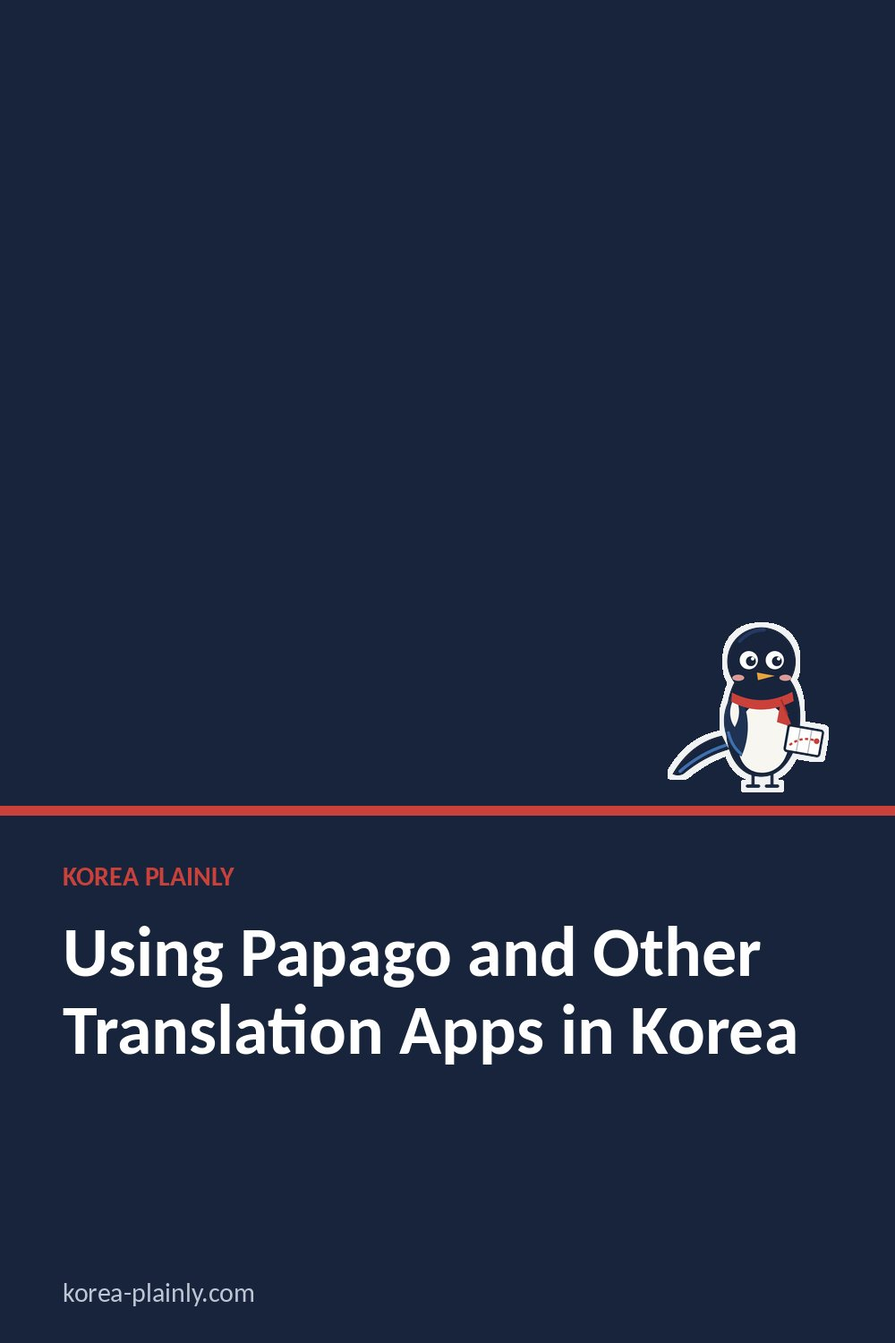
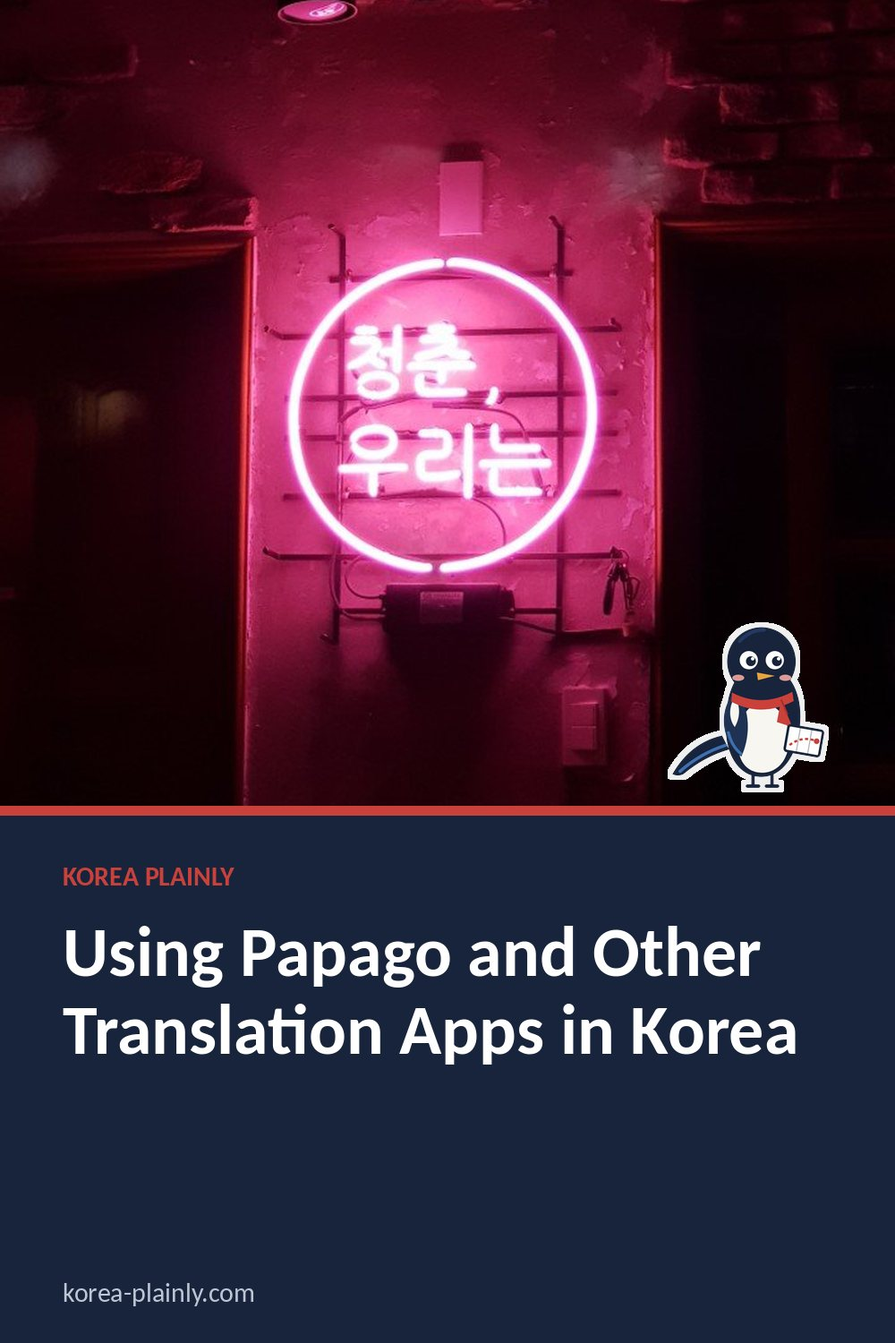
Seoul subway map guide rewrite, Papago cover photo, keyword-gap topics
- seoul-subway-for-foreigners: retitled for "seoul subway map"; fuller body (~1,100 words) on reading the map, apps, fares, platforms, transfers, exits and last trains, with FAQ; new description, lead, card text and cover alt
- papago-translation-app: no Commons photo was found; use the owner's Hangul neon photo as the cover
- topics: WOWPASS, Seoul with kids, temple stay programs, budget airlines/domestic flights and Myeongdong night market moved to the front (keyword gaps)

Claude-Session: https://claude.ai/code/session_018grP5WofxfXMUUDbNYE278

diff --git a/seoul-subway-for-foreigners.html b/seoul-subway-for-foreigners.html
@@ -4,18 +4,18 @@
 <meta charset="UTF-8">
 <meta name="viewport" content="width=device-width, initial-scale=1.0">
 <link rel="stylesheet" href="style.css?v=20261015-1">
-<title>How to Use the Seoul Subway as a Foreigner | Korea Plainly</title>
-<meta name="description" content="How to Use the Seoul Subway as a Foreigner. Practical tips and simple advice for foreign visitors traveling in Korea.">
+<title>Seoul Subway Map and How to Use It: A Guide for Foreigners</title>
+<meta name="description" content="How to read the Seoul subway map, pay with T-money, find the right platform, change lines and choose exits, for first-time visitors.">
 <link rel="canonical" href="https://korea-plainly.com/seoul-subway-for-foreigners.html">
 <meta property="og:type" content="article">
-<meta property="og:title" content="How to Use the Seoul Subway as a Foreigner | Korea Plainly">
-<meta property="og:description" content="How to Use the Seoul Subway as a Foreigner. Practical tips and simple advice for foreign visitors traveling in Korea.">
+<meta property="og:title" content="Seoul Subway Map and How to Use It: A Guide for Foreigners | Korea Plainly">
+<meta property="og:description" content="How to read the Seoul subway map, pay with T-money, find the right platform, change lines and choose exits, for first-time visitors.">
 <meta property="og:url" content="https://korea-plainly.com/seoul-subway-for-foreigners.html">
 <meta property="og:image" content="https://korea-plainly.com/photo-seoul-subway-for-foreigners.jpg">
 <meta property="og:site_name" content="Korea Plainly">
 <meta name="twitter:card" content="summary_large_image">
-<meta name="twitter:title" content="How to Use the Seoul Subway as a Foreigner | Korea Plainly">
-<meta name="twitter:description" content="How to Use the Seoul Subway as a Foreigner. Practical tips and simple advice for foreign visitors traveling in Korea.">
+<meta name="twitter:title" content="Seoul Subway Map and How to Use It: A Guide for Foreigners | Korea Plainly">
+<meta name="twitter:description" content="How to read the Seoul subway map, pay with T-money, find the right platform, change lines and choose exits, for first-time visitors.">
 <meta name="twitter:image" content="https://korea-plainly.com/photo-seoul-subway-for-foreigners.jpg">
 
 <style>
@@ -46,8 +46,9 @@ footer{border-top:1px solid #ddd4c5;padding:30px 24px;color:#737985;text-align:c
 <script async src="https://www.googletagmanager.com/gtag/js?id=G-F508WWT8G9"></script><script>window.dataLayer=window.dataLayer||[];function gtag(){dataLayer.push(arguments);}gtag('js',new Date());gtag('config','G-F508WWT8G9');</script>
 <link rel="stylesheet" href="article.css?v=3">
 <link rel="stylesheet" href="https://fonts.googleapis.com/css2?family=DM+Sans:wght@400;500;600;700&family=Playfair+Display:ital,wght@0,600;1,600&display=swap">
-<script type="application/ld+json" id="kp-article-ld">{"@context": "https://schema.org", "@type": "Article", "headline": "How to Use the Seoul Subway as a Foreigner", "description": "How to Use the Seoul Subway as a Foreigner. Practical tips and simple advice for foreign visitors traveling in Korea.", "image": ["https://korea-plainly.com/photo-seoul-subway-for-foreigners.jpg"], "datePublished": "2026-10-07", "dateModified": "2026-10-07", "author": {"@type": "Person", "name": "Jungsuk Kim", "url": "https://korea-plainly.com/about.html#author"}, "publisher": {"@type": "Organization", "name": "Korea Plainly", "url": "https://korea-plainly.com/"}, "mainEntityOfPage": "https://korea-plainly.com/seoul-subway-for-foreigners.html"}</script>
-<script type="application/ld+json" id="kp-breadcrumb-ld">{"@context": "https://schema.org", "@type": "BreadcrumbList", "itemListElement": [{"@type": "ListItem", "position": 1, "name": "Home", "item": "https://korea-plainly.com/"}, {"@type": "ListItem", "position": 2, "name": "Guides", "item": "https://korea-plainly.com/guides.html"}, {"@type": "ListItem", "position": 3, "name": "Transport", "item": "https://korea-plainly.com/guides.html?category=transport"}, {"@type": "ListItem", "position": 4, "name": "How to Use the Seoul Subway as a Foreigner", "item": "https://korea-plainly.com/seoul-subway-for-foreigners.html"}]}</script>
+<script type="application/ld+json" id="kp-faq-ld">{"@context": "https://schema.org", "@type": "FAQPage", "mainEntity": [{"@type": "Question", "name": "Is there an English Seoul subway map?", "acceptedAnswer": {"@type": "Answer", "text": "Yes. Station maps and signs show station names in English as well as Korean, and Naver Map, KakaoMap and subway apps such as Subway Korea can be set to English. Saving the map on your phone is easier than reading the large wall maps."}}, {"@type": "Question", "name": "Can I use the Seoul subway without speaking Korean?", "acceptedAnswer": {"@type": "Answer", "text": "Easily. Ticket machines, signs and announcements are in English, and station numbers help you check where you are. Plan the route in an app before you go, and ask station staff if you get lost."}}, {"@type": "Question", "name": "How late does the Seoul subway run?", "acceptedAnswer": {"@type": "Answer", "text": "Most lines run until around midnight, with slightly earlier last trains on weekends and holidays on some lines. Times differ by station and direction, so check the last train in Naver Map or KakaoMap and use a taxi after that."}}]}</script>
+<script type="application/ld+json" id="kp-article-ld">{"@context": "https://schema.org", "@type": "Article", "headline": "Seoul Subway Map and How to Use It: A Guide for Foreigners", "description": "How to read the Seoul subway map, pay with T-money, find the right platform, change lines and choose exits, for first-time visitors.", "image": ["https://korea-plainly.com/photo-seoul-subway-for-foreigners.jpg"], "datePublished": "2026-10-07", "dateModified": "2026-10-18", "author": {"@type": "Person", "name": "Jungsuk Kim", "url": "https://korea-plainly.com/about.html#author"}, "publisher": {"@type": "Organization", "name": "Korea Plainly", "url": "https://korea-plainly.com/"}, "mainEntityOfPage": "https://korea-plainly.com/seoul-subway-for-foreigners.html"}</script>
+<script type="application/ld+json" id="kp-breadcrumb-ld">{"@context": "https://schema.org", "@type": "BreadcrumbList", "itemListElement": [{"@type": "ListItem", "position": 1, "name": "Home", "item": "https://korea-plainly.com/"}, {"@type": "ListItem", "position": 2, "name": "Guides", "item": "https://korea-plainly.com/guides.html"}, {"@type": "ListItem", "position": 3, "name": "Transport", "item": "https://korea-plainly.com/guides.html?category=transport"}, {"@type": "ListItem", "position": 4, "name": "Seoul Subway Map and How to Use It: A Guide for Foreigners", "item": "https://korea-plainly.com/seoul-subway-for-foreigners.html"}]}</script>
 <meta property="article:published_time" content="2026-10-07">
 </head>
 <body class="kp-article">
@@ -71,58 +72,65 @@ footer{border-top:1px solid #ddd4c5;padding:30px 24px;color:#737985;text-align:c
 <main>
 <nav class="kp-crumbs" data-kp="crumbs" aria-label="Breadcrumb"><a href="index.html">Home</a> <span>›</span> <a href="guides.html">Guides</a> <span>›</span> <a href="guides.html?category=transport">Transport</a></nav>
 <div class="eyebrow">SEOUL · TRANSPORT</div>
-<h1>How to Use the Seoul Subway as a Foreigner</h1>
-<p class="kp-date" data-kp="date">By <a href="about.html#author">Jungsuk Kim</a>, Korea Plainly · Published <time datetime="2026-10-07">7 October 2026</time></p>
-<p class="dek">Seoul's subway is one of the easiest ways to explore the city. Here is a simple guide to tickets, transfers, signs and the small things first-time visitors should know.</p>
+<h1>Seoul Subway Map and How to Use It: A Guide for Foreigners</h1>
+<p class="kp-date" data-kp="date">By <a href="about.html#author">Jungsuk Kim</a>, Korea Plainly · Published <time datetime="2026-10-07">7 October 2026</time> · Updated <time datetime="2026-10-18">18 October 2026</time></p>
+<p class="dek">The Seoul subway map looks complicated, but you only need a line, a direction and an exit. Here is how to read the map, pay, change lines and find your way out.</p>
 
-<img class="cover" src="photo-seoul-subway-for-foreigners.jpg" alt="Seoul city" srcset="img/photo-seoul-subway-for-foreigners.0b6d5614.w480.webp 480w, img/photo-seoul-subway-for-foreigners.0b6d5614.w800.webp 800w, img/photo-seoul-subway-for-foreigners.0b6d5614.w1200.webp 1200w, photo-seoul-subway-for-foreigners.jpg 1600w" sizes="(max-width: 860px) 100vw, 820px" fetchpriority="high">
+<img class="cover" src="photo-seoul-subway-for-foreigners.jpg" alt="A Seoul subway train running beside the Han River" srcset="img/photo-seoul-subway-for-foreigners.0b6d5614.w480.webp 480w, img/photo-seoul-subway-for-foreigners.0b6d5614.w800.webp 800w, img/photo-seoul-subway-for-foreigners.0b6d5614.w1200.webp 1200w, photo-seoul-subway-for-foreigners.jpg 1600w" sizes="(max-width: 860px) 100vw, 820px" fetchpriority="high">
 <p class="photo-credit" data-kp="photo-credit" style="font-size:12px;color:#777;margin:-18px 0 24px"><a href="https://commons.wikimedia.org/wiki/File:Seoul-Metropolitan-Rapid-Transit-7010-20070721.jpg" target="_blank" rel="noopener nofollow" style="color:inherit">Photo: LERK, CC BY 2.5, via Wikimedia Commons</a></p>
 
 <article>
-<nav class="kp-toc" data-kp="toc" aria-label="On this page"><p>On this page</p><ol><li><a href="#1-get-a-transportation-card-first">1. Get a transportation card first</a></li><li><a href="#2-understand-the-subway-lines">2. Understand the subway lines</a></li><li><a href="#3-check-the-direction-before-boarding">3. Check the direction before boarding</a></li><li><a href="#4-transfers-can-involve-a-lot-of-walking">4. Transfers can involve a lot of walking</a></li><li><a href="#5-use-english-signs">5. Use English signs</a></li><li><a href="#6-know-how-the-subway-etiquette-works">6. Know how the subway etiquette works</a></li><li><a href="#7-don-t-worry-if-you-miss-a-train">7. Don&#x27;t worry if you miss a train</a></li><li><a href="#8-use-a-local-map-app-when-possible">8. Use a local map app when possible</a></li></ol></nav>
-<h2 id="1-get-a-transportation-card-first">1. Get a transportation card first</h2>
-<p>If you plan to use public transportation more than once or twice, a rechargeable transportation card is usually the easiest option. T-money is widely used on Seoul's subway and buses.</p>
+<nav class="kp-toc" data-kp="toc" aria-label="On this page"><p>On this page</p><ol><li><a href="#reading-the-seoul-subway-map">Reading the Seoul subway map</a></li><li><a href="#the-best-subway-map-apps">The best subway map apps</a></li><li><a href="#paying-for-the-subway">Paying for the subway</a></li><li><a href="#finding-the-right-platform">Finding the right platform</a></li><li><a href="#transfers-and-exits">Transfers and exits</a></li><li><a href="#hours-crowds-and-etiquette">Hours, crowds and etiquette</a></li><li><a href="#faq">FAQ</a></li></ol></nav>
+<h2 id="reading-the-seoul-subway-map">Reading the Seoul subway map</h2>
+<p>The Seoul subway map looks frightening the first time you see it on a station wall: more than twenty coloured lines, hundreds of dots and several lines that run far out into Gyeonggi-do and Incheon. The trick is that you never need to read the whole thing. You only need three pieces of information for any ride: the line, the direction and the station where you change.</p>
+<ul>
+<li><strong>Line numbers and colours.</strong> Lines 1 to 9 are numbered, and each has a fixed colour that is used on the map, on platform signs and on the floor arrows inside stations. Line 2 (green) is the loop through central Seoul, Line 4 (light blue) serves Myeongdong and Seoul Station, and Line 9 (gold) runs along the south of the Han River. Other lines have names instead of numbers, such as AREX (the airport railroad), Shinbundang, Gyeongui-Jungang and Suin-Bundang.</li>
+<li><strong>Station numbers.</strong> Every station has a three-digit code beside its name, for example 201 for City Hall on Line 2 or 424 for Myeongdong on Line 4. The first digit usually matches the line. If you cannot pronounce a station name, the number is an easy way to check you are in the right place.</li>
+<li><strong>Transfer stations.</strong> Stations where lines meet are drawn as larger white circles. Big ones such as Seoul Station, Jongno 3-ga and Express Bus Terminal connect three or more lines.</li>
+</ul>
+<p>A screenshot of an old map may be missing newer stations, so use an app for planning.</p>
 
-<div class="steps">
-<div class="step"><strong>Step 1</strong>Buy a card at a convenience store or subway station.</div>
-<div class="step"><strong>Step 2</strong>Add Korean won to the card before travelling.</div>
-<div class="step"><strong>Step 3</strong>Tap when entering and leaving the system.</div>
-</div>
+<h2 id="the-best-subway-map-apps">The best subway map apps</h2>
+<p>Route planning is much easier on a phone than on a wall map. Naver Map and KakaoMap both have English menus, show the subway lines in their real colours, and tell you which carriage door is closest to the exit or transfer you need. Subway apps such as Subway Korea show a clean, zoomable Seoul subway map. Google Maps shows subway routes but walks you badly, so keep it as a backup. Our guide to <a href="naver-map-vs-google-maps-korea.html">Naver Map vs Google Maps</a> explains the switch to English.</p>
 
-<h2 id="2-understand-the-subway-lines">2. Understand the subway lines</h2>
-<p>Each subway line has a number or name and a distinct color. You do not need to memorize them. Search for your destination and follow the line number, station name and direction shown on the signs.</p>
+<h2 id="paying-for-the-subway">Paying for the subway</h2>
+<p>The simplest way to pay is a rechargeable <a href="korea-transit-card-guide.html">transit card</a> such as T-money, which you can buy and top up with cash at convenience stores and at the machines in every station. Some travel cards and foreign-issued contactless bank cards are also accepted at the gates, but acceptance has been changing, so a T-money card with a few thousand won on it is the safest choice.</p>
+<ul>
+<li><strong>Fares.</strong> A basic adult ride in Seoul cost about 1,550 won with a card in 2026, with a little extra for longer trips. Paying with a card is cheaper than a single journey ticket.</li>
+<li><strong>Single journey tickets.</strong> The station machines (with an English button) sell a reusable card ticket that includes a small refundable deposit. Get the deposit back at the deposit refund machine near the gates when you finish.</li>
+<li><strong>Tap in and tap out.</strong> Always tap your card when you leave, not only when you enter. The fare depends on distance, and leaving without tapping can cost you more next time.</li>
+</ul>
+<p>If you change from the subway to a bus within a short time, the transfer is discounted or free as long as you tap out of each vehicle. The details are in our guide to <a href="korea-public-transport-transfers.html">public transport transfers</a>.</p>
 
-<figure class="article-figure">
-<img src="street.jpg" alt="A Seoul street" srcset="img/street.5386e01c.w480.webp 480w, img/street.5386e01c.w800.webp 800w, img/street.5386e01c.w1200.webp 1200w, street.jpg 1536w" sizes="(max-width: 600px) 100vw, (max-width: 1000px) 50vw, 400px" decoding="async">
-<figcaption>When you leave a station, check the exit number carefully. Seoul stations can have many exits.</figcaption>
-</figure>
+<h2 id="finding-the-right-platform">Finding the right platform</h2>
+<p>This is where most first-time mistakes happen. The same line runs in two directions, often from separate entrances on opposite sides of the road. Before you tap in, look at the signs above the stairs: they show the line colour and the next station or the end station in each direction. Compare that with the next stop on your app. At some stations the wrong gate means paying again to cross over.</p>
+<p>Line 2 is the exception that confuses people: because it is a loop, the signs say "inner circle" (clockwise) and "outer circle" (anticlockwise). Just check the name of the next station instead.</p>
 
-<h2 id="3-check-the-direction-before-boarding">3. Check the direction before boarding</h2>
-<p>This is one of the easiest mistakes to make. A station can have trains going in opposite directions from different platforms. Look for the final destination or direction displayed on the platform signs.</p>
+<h2 id="transfers-and-exits">Transfers and exits</h2>
+<p>Follow the coloured signs marked "Transfer" to change lines. Some transfers are a short walk across the platform; others, such as at Gimpo Airport or Gangnam-area interchanges, can take five to ten minutes through tunnels and stairs. Allow extra time if you have luggage, and look for lifts marked with a wheelchair symbol. On Line 9, express trains skip many stations, so check that yours is served.</p>
+<p>Exit numbers matter more than in many cities. Large stations have ten or more exits that come out on different streets, sometimes several hundred metres apart. Your map app and many shop websites give the exit number ("Exit 8"), and yellow signs inside the station point the way.</p>
 
-<div class="tip"><strong>Quick tip:</strong> If you are unsure, compare the next few station names with your route before getting on the train.</div>
+<h2 id="hours-crowds-and-etiquette">Hours, crowds and etiquette</h2>
+<ul>
+<li>Trains usually run from about 5:30 in the morning until around midnight. Last trains vary by line and day, so check your app before a late night out.</li>
+<li>Rush hours (roughly 7:30 to 9:30 and 6:00 to 8:00 pm on weekdays) are very crowded on Lines 2, 7 and 9. Travel outside these times with big suitcases if you can.</li>
+<li>Let people off first, then board. Queue at the marked lines on the platform.</li>
+<li>The seats at the ends of each carriage are for older passengers, pregnant women and people with disabilities. Pink seats are reserved for pregnant women. Leave them free even when the train is quiet.</li>
+<li>Speak quietly, use headphones, and avoid eating on the train.</li>
 
-<h2 id="4-transfers-can-involve-a-lot-of-walking">4. Transfers can involve a lot of walking</h2>
-<p>Seoul's subway system is highly connected, but some transfers are long. A transfer may mean walking through corridors, taking stairs or following signs for several minutes.</p>
+</ul>
+<p>For journeys the subway does not cover well, the <a href="seoul-bus-guide.html">Seoul bus guide</a> explains how the buses work, and our <a href="incheon-airport-to-seoul.html">airport guide</a> covers AREX from Incheon.</p>
 
-<h2 id="5-use-english-signs">5. Use English signs</h2>
-<p>Major subway stations generally provide Korean and English information, and many also include Chinese and Japanese. Station names are commonly displayed in both Korean and Roman letters.</p>
+<div class="tip"><strong>Bottom line:</strong> Use the Seoul subway map in an app, check the direction before you tap in, note your exit number, and tap out at the end. After a couple of rides it becomes the easiest way to see the city.</div>
 
-<h2 id="6-know-how-the-subway-etiquette-works">6. Know how the subway etiquette works</h2>
-<p>Stand to one side of the escalator when appropriate, let passengers exit before boarding, and avoid blocking doors. Priority seats are intended for people who need them, so it is best not to occupy them casually.</p>
-
-<figure class="article-figure">
-<img src="store.jpg" alt="Korean convenience store" srcset="img/store.438a5153.w480.webp 480w, img/store.438a5153.w800.webp 800w, img/store.438a5153.w1200.webp 1200w, store.jpg 1536w" sizes="(max-width: 600px) 100vw, (max-width: 1000px) 50vw, 400px" decoding="async">
-<figcaption>Convenience stores near subway stations can be useful for water, snacks and quick breaks.</figcaption>
-</figure>
-
-<h2 id="7-don-t-worry-if-you-miss-a-train">7. Don't worry if you miss a train</h2>
-<p>Trains arrive frequently, especially on busy routes. Missing one train usually does not change your trip very much. Check the next train and continue.</p>
-
-<h2 id="8-use-a-local-map-app-when-possible">8. Use a local map app when possible</h2>
-<p>Naver Map and KakaoMap can be especially helpful in Korea. They can show detailed walking routes, station exits and local businesses that may not appear as clearly on Google Maps.</p>
-
-<div class="tip"><strong>Bottom line:</strong> Get a transportation card, check the direction before boarding, and give yourself extra time for transfers. After a couple of rides, Seoul's subway becomes much easier.</div>
+<section class="faq"><h2 id="faq">FAQ</h2>
+<h3>Is there an English Seoul subway map?</h3>
+<p>Yes. Station maps and signs show station names in English as well as Korean, and Naver Map, KakaoMap and subway apps such as Subway Korea can be set to English. Saving the map on your phone is easier than reading the large wall maps.</p>
+<h3>Can I use the Seoul subway without speaking Korean?</h3>
+<p>Easily. Ticket machines, signs and announcements are in English, and station numbers help you check where you are. Plan the route in an app before you go, and ask station staff if you get lost.</p>
+<h3>How late does the Seoul subway run?</h3>
+<p>Most lines run until around midnight, with slightly earlier last trains on weekends and holidays on some lines. Times differ by station and direction, so check the last train in Naver Map or KakaoMap and use a taxi after that.</p>
+</section>
 
 <!-- kp-kkachi -->
 <style>.kp-kkachi{display:flex;gap:16px;align-items:center;margin:34px 0 8px;padding:16px 18px;border:1px solid rgba(20,28,42,.12);border-radius:14px;background:#fffdf8}.kp-kkachi img{width:72px;height:auto;flex:none;margin:0}.kp-kkachi p{margin:0;font-size:15px;line-height:1.6;color:#4b5363}.kp-kkachi a{color:#c9413a;font-weight:600}.kp-kkachi .kp-sub{margin-top:10px}.kp-sub{display:inline-flex;align-items:center;gap:8px;background:#c9413a;color:#fff!important;font-weight:700;font-size:14px;line-height:1;padding:10px 16px;border-radius:999px;text-decoration:none!important;white-space:nowrap}.kp-sub:before{content:'';border-style:solid;border-width:6px 0 6px 10px;border-color:transparent transparent transparent #fff}.kp-sub:hover{background:#a8332d}</style><aside class="kp-kkachi"><img src="kkachi.png" alt="Kkachi, the Korea Plainly magpie" width="72" height="78" loading="lazy"><p><strong>Kkachi says:</strong> in Korea, a magpie's call is said to mean good news and welcome guests are on the way. Have a wonderful trip! New one-minute Korea tips every Monday, Wednesday and Friday on <a href="https://www.youtube.com/@KoreaPlainly" target="_blank" rel="noopener">YouTube</a>.<br><a class="kp-sub" href="https://www.youtube.com/@KoreaPlainly?sub_confirmation=1" target="_blank" rel="noopener">Subscribe on YouTube</a></p></aside>

diff --git a/papago-translation-app.html b/papago-translation-app.html
@@ -46,7 +46,7 @@ Using Papago and Other Translation Apps in Korea | Korea Plainly
 
 <meta
   property="og:image"
-  content="https://korea-plainly.com/street.jpg"
+  content="https://korea-plainly.com/photo-own-neon-hangul.jpg"
 >
 
 <meta
@@ -71,7 +71,7 @@ Using Papago and Other Translation Apps in Korea | Korea Plainly
 
 <meta
   name="twitter:image"
-  content="https://korea-plainly.com/street.jpg"
+  content="https://korea-plainly.com/photo-own-neon-hangul.jpg"
 >
 
 <style>
@@ -247,12 +247,12 @@ footer {
 <script async src="https://pagead2.googlesyndication.com/pagead/js/adsbygoogle.js?client=ca-pub-7379462117232471" crossorigin="anonymous"></script>
 <style>.kp-date{font-size:13px;color:#62635f;margin:-6px 0 22px}</style>
 <script type="application/ld+json" id="kp-faq-ld">{"@context": "https://schema.org", "@type": "FAQPage", "mainEntity": [{"@type": "Question", "name": "Can I use a translation app to read Korean menus and signs?", "acceptedAnswer": {"@type": "Answer", "text": "Yes. Many translation apps can translate text through your phone’s camera, which is useful for printed menus, signs, and notices. Results may be less reliable with handwriting, decorative fonts, glare, or unusual layouts. If a translation seems unclear, try taking a sharper photo or ask staff to confirm the dish or direction."}}, {"@type": "Question", "name": "Should I trust a translation app for important conversations?", "acceptedAnswer": {"@type": "Answer", "text": "Treat translations as a helpful aid, not a perfect interpretation. Short, simple sentences usually work better than slang, jokes, or long explanations. For important details such as an address, allergy, or reservation, check the translated text carefully and show it to the other person so they can correct misunderstandings."}}, {"@type": "Question", "name": "Will translation apps work without an internet connection in Korea?", "acceptedAnswer": {"@type": "Answer", "text": "Some apps offer offline language options, but available features can differ, and camera or voice translation may need a connection. Before traveling, check the app’s settings and download any Korean language data it offers while you have Wi-Fi. Keep important addresses or messages saved as text or screenshots as a backup."}}]}</script>
-<script type="application/ld+json" id="kp-article-ld">{"@context": "https://schema.org", "@type": "Article", "headline": "Using Papago and Other Translation Apps in Korea", "description": "Learn how to use Papago, Google Translate, and other translation tools for menus, signs, conversations, and everyday tasks while visiting Korea.", "image": ["https://korea-plainly.com/street.jpg"], "datePublished": "2026-10-18", "dateModified": "2026-10-18", "author": {"@type": "Person", "name": "Jungsuk Kim", "url": "https://korea-plainly.com/about.html#author"}, "publisher": {"@type": "Organization", "name": "Korea Plainly", "url": "https://korea-plainly.com/"}, "mainEntityOfPage": "https://korea-plainly.com/papago-translation-app.html"}</script>
-<script type="application/ld+json" id="kp-breadcrumb-ld">{"@context": "https://schema.org", "@type": "BreadcrumbList", "itemListElement": [{"@type": "ListItem", "position": 1, "name": "Home", "item": "https://korea-plainly.com/"}, {"@type": "ListItem", "position": 2, "name": "Guides", "item": "https://korea-plainly.com/guides.html"}, {"@type": "ListItem", "position": 3, "name": "Apps & Tips", "item": "https://korea-plainly.com/guides.html?category=apps"}, {"@type": "ListItem", "position": 4, "name": "Using Papago and Other Translation Apps in Korea", "item": "https://korea-plainly.com/papago-translation-app.html"}]}</script>
-<meta property="article:published_time" content="2026-10-18">
 <link rel="stylesheet" href="article.css?v=3">
 <link rel="stylesheet" href="https://fonts.googleapis.com/css2?family=DM+Sans:wght@400;500;600;700&family=Playfair+Display:ital,wght@0,600;1,600&display=swap">
 <link rel="icon" href="/favicon.svg" type="image/svg+xml">
+<script type="application/ld+json" id="kp-article-ld">{"@context": "https://schema.org", "@type": "Article", "headline": "Using Papago and Other Translation Apps in Korea", "description": "Learn how to use Papago, Google Translate, and other translation tools for menus, signs, conversations, and everyday tasks while visiting Korea.", "image": ["https://korea-plainly.com/photo-own-neon-hangul.jpg"], "datePublished": "2026-10-18", "dateModified": "2026-10-18", "author": {"@type": "Person", "name": "Jungsuk Kim", "url": "https://korea-plainly.com/about.html#author"}, "publisher": {"@type": "Organization", "name": "Korea Plainly", "url": "https://korea-plainly.com/"}, "mainEntityOfPage": "https://korea-plainly.com/papago-translation-app.html"}</script>
+<script type="application/ld+json" id="kp-breadcrumb-ld">{"@context": "https://schema.org", "@type": "BreadcrumbList", "itemListElement": [{"@type": "ListItem", "position": 1, "name": "Home", "item": "https://korea-plainly.com/"}, {"@type": "ListItem", "position": 2, "name": "Guides", "item": "https://korea-plainly.com/guides.html"}, {"@type": "ListItem", "position": 3, "name": "Apps & Tips", "item": "https://korea-plainly.com/guides.html?category=apps"}, {"@type": "ListItem", "position": 4, "name": "Using Papago and Other Translation Apps in Korea", "item": "https://korea-plainly.com/papago-translation-app.html"}]}</script>
+<meta property="article:published_time" content="2026-10-18">
 </head>
 
 <body class="kp-article">
@@ -292,9 +292,10 @@ Learn how to use Papago, Google Translate, and other translation tools for menus
 
 <img
   class="cover"
-  src="street.jpg"
-  alt="A traveler using a phone translation app to read Korean text" srcset="img/street.5386e01c.w480.webp 480w, img/street.5386e01c.w800.webp 800w, img/street.5386e01c.w1200.webp 1200w, street.jpg 1536w" sizes="(max-width: 860px) 100vw, 820px" fetchpriority="high"
+  src="photo-own-neon-hangul.jpg"
+  alt="A pink neon sign written in Hangul, the kind of Korean text a translation app can read" fetchpriority="high"
 >
+<p class="photo-credit" data-kp="photo-credit" style="font-size:12px;color:#777;margin:-18px 0 24px">Photo: Jungsuk Kim, Korea Plainly</p>
 
 <article>
 

diff --git a/guides.html b/guides.html
@@ -114,7 +114,7 @@
 <div class="guide-copy"><small>SEOUL · FIRST TRIP</small><h2>7 Things First-Time Visitors Should Know About Seoul</h2><p>Transport cards, map apps, cash, subway exits and etiquette for your first days in Seoul.</p><span class="guide-arrow">Read guide →</span></div>
 </a><a class="guide-card" href="seoul-subway-for-foreigners.html" data-guide-category="transport">
 <div class="guide-image" data-thumb="photo-seoul-subway-for-foreigners.jpg"><img class="guide-thumb" src="photo-seoul-subway-for-foreigners.jpg" alt="" loading="lazy" srcset="img/photo-seoul-subway-for-foreigners.0b6d5614.w480.webp 480w, img/photo-seoul-subway-for-foreigners.0b6d5614.w800.webp 800w, img/photo-seoul-subway-for-foreigners.0b6d5614.w1200.webp 1200w, photo-seoul-subway-for-foreigners.jpg 1600w" sizes="(max-width: 600px) 100vw, (max-width: 1000px) 50vw, 400px" decoding="async"><span>02</span></div>
-<div class="guide-copy"><small>TRANSPORT · SEOUL</small><h2>How to Use the Seoul Subway as a Foreigner</h2><p>Cards, lines, transfers, signs and simple subway etiquette.</p><span class="guide-arrow">Read guide →</span></div>
+<div class="guide-copy"><small>TRANSPORT · SEOUL</small><h2>Seoul Subway Map and How to Use It: A Guide for Foreigners</h2><p>Reading the subway map, paying with T-money, platforms, transfers, exits and last trains.</p><span class="guide-arrow">Read guide →</span></div>
 </a><a class="guide-card" href="korean-restaurant-words.html" data-guide-category="food">
 <div class="guide-image" data-thumb="photo-korean-restaurant-words.jpg"><img class="guide-thumb" src="photo-korean-restaurant-words.jpg" alt="" loading="lazy" srcset="img/photo-korean-restaurant-words.620bd22a.w480.webp 480w, img/photo-korean-restaurant-words.620bd22a.w800.webp 800w, img/photo-korean-restaurant-words.620bd22a.w1200.webp 1200w, photo-korean-restaurant-words.jpg 1280w" sizes="(max-width: 600px) 100vw, (max-width: 1000px) 50vw, 400px" decoding="async"><span>03</span></div>
 <div class="guide-copy"><small>FOOD · BEGINNER</small><h2>10 Korean Restaurant Words Worth Knowing</h2><p>
@@ -2525,7 +2525,7 @@ class="guide-card"
 href="papago-translation-app.html" data-guide-category="apps"
 >
 
-<div class="guide-image" data-thumb="thumb-auto-papago-translation-app.svg"><img class="guide-thumb" src="thumb-auto-papago-translation-app.svg" alt="" loading="eager" decoding="async">
+<div class="guide-image" data-thumb="photo-own-neon-hangul.jpg"><img class="guide-thumb" src="photo-own-neon-hangul.jpg" alt="" loading="eager" decoding="async">
 
 <span>
 23
